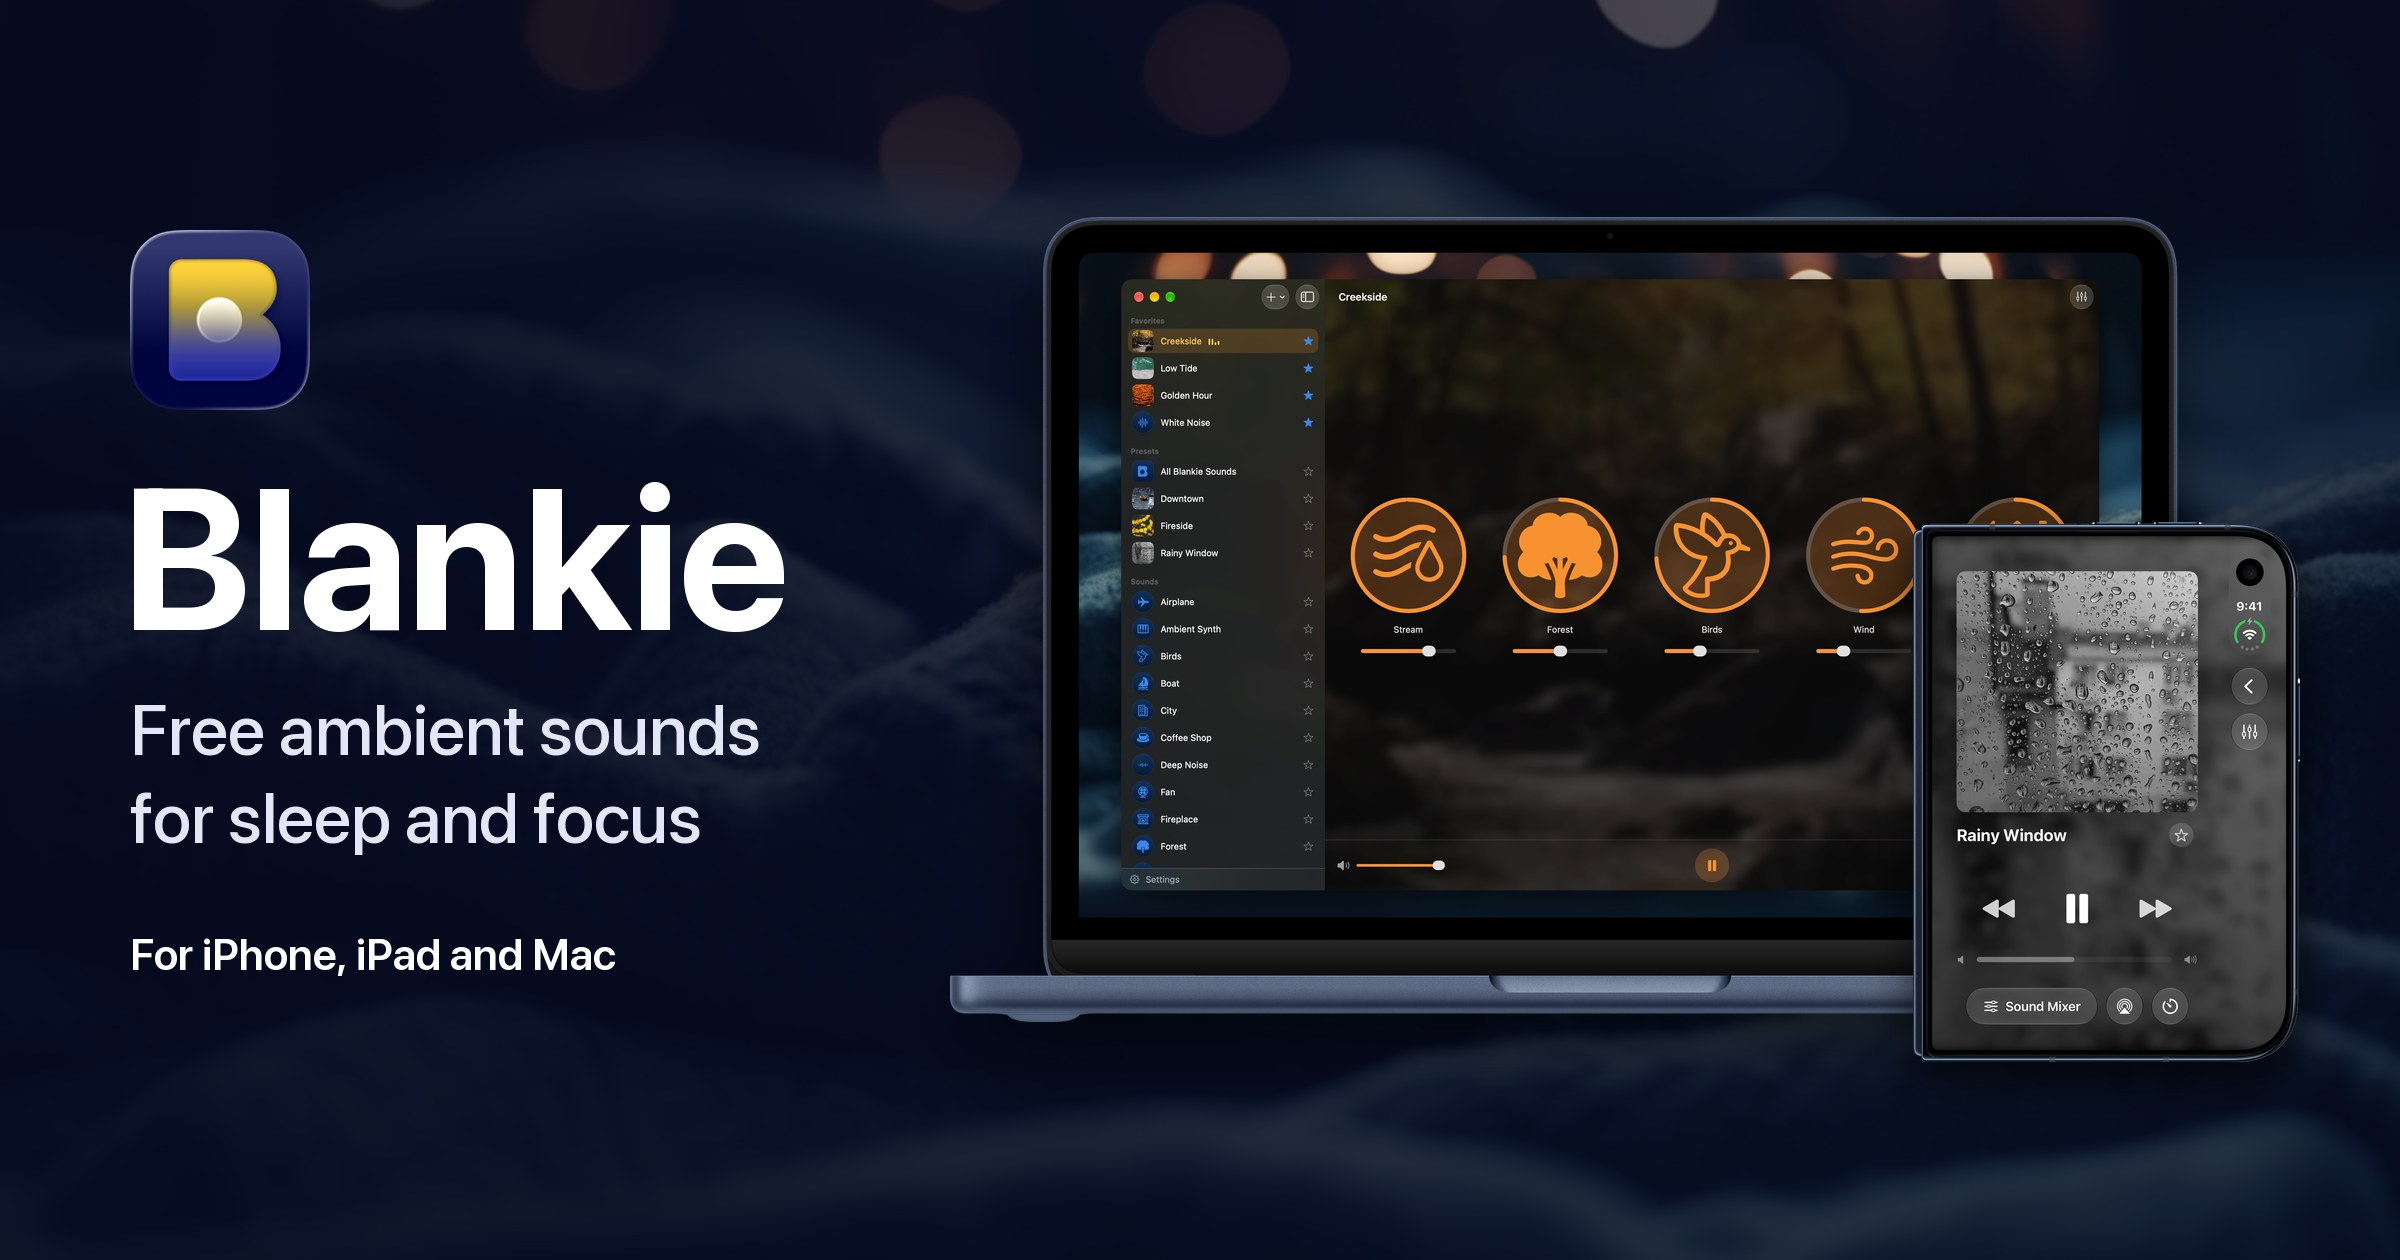
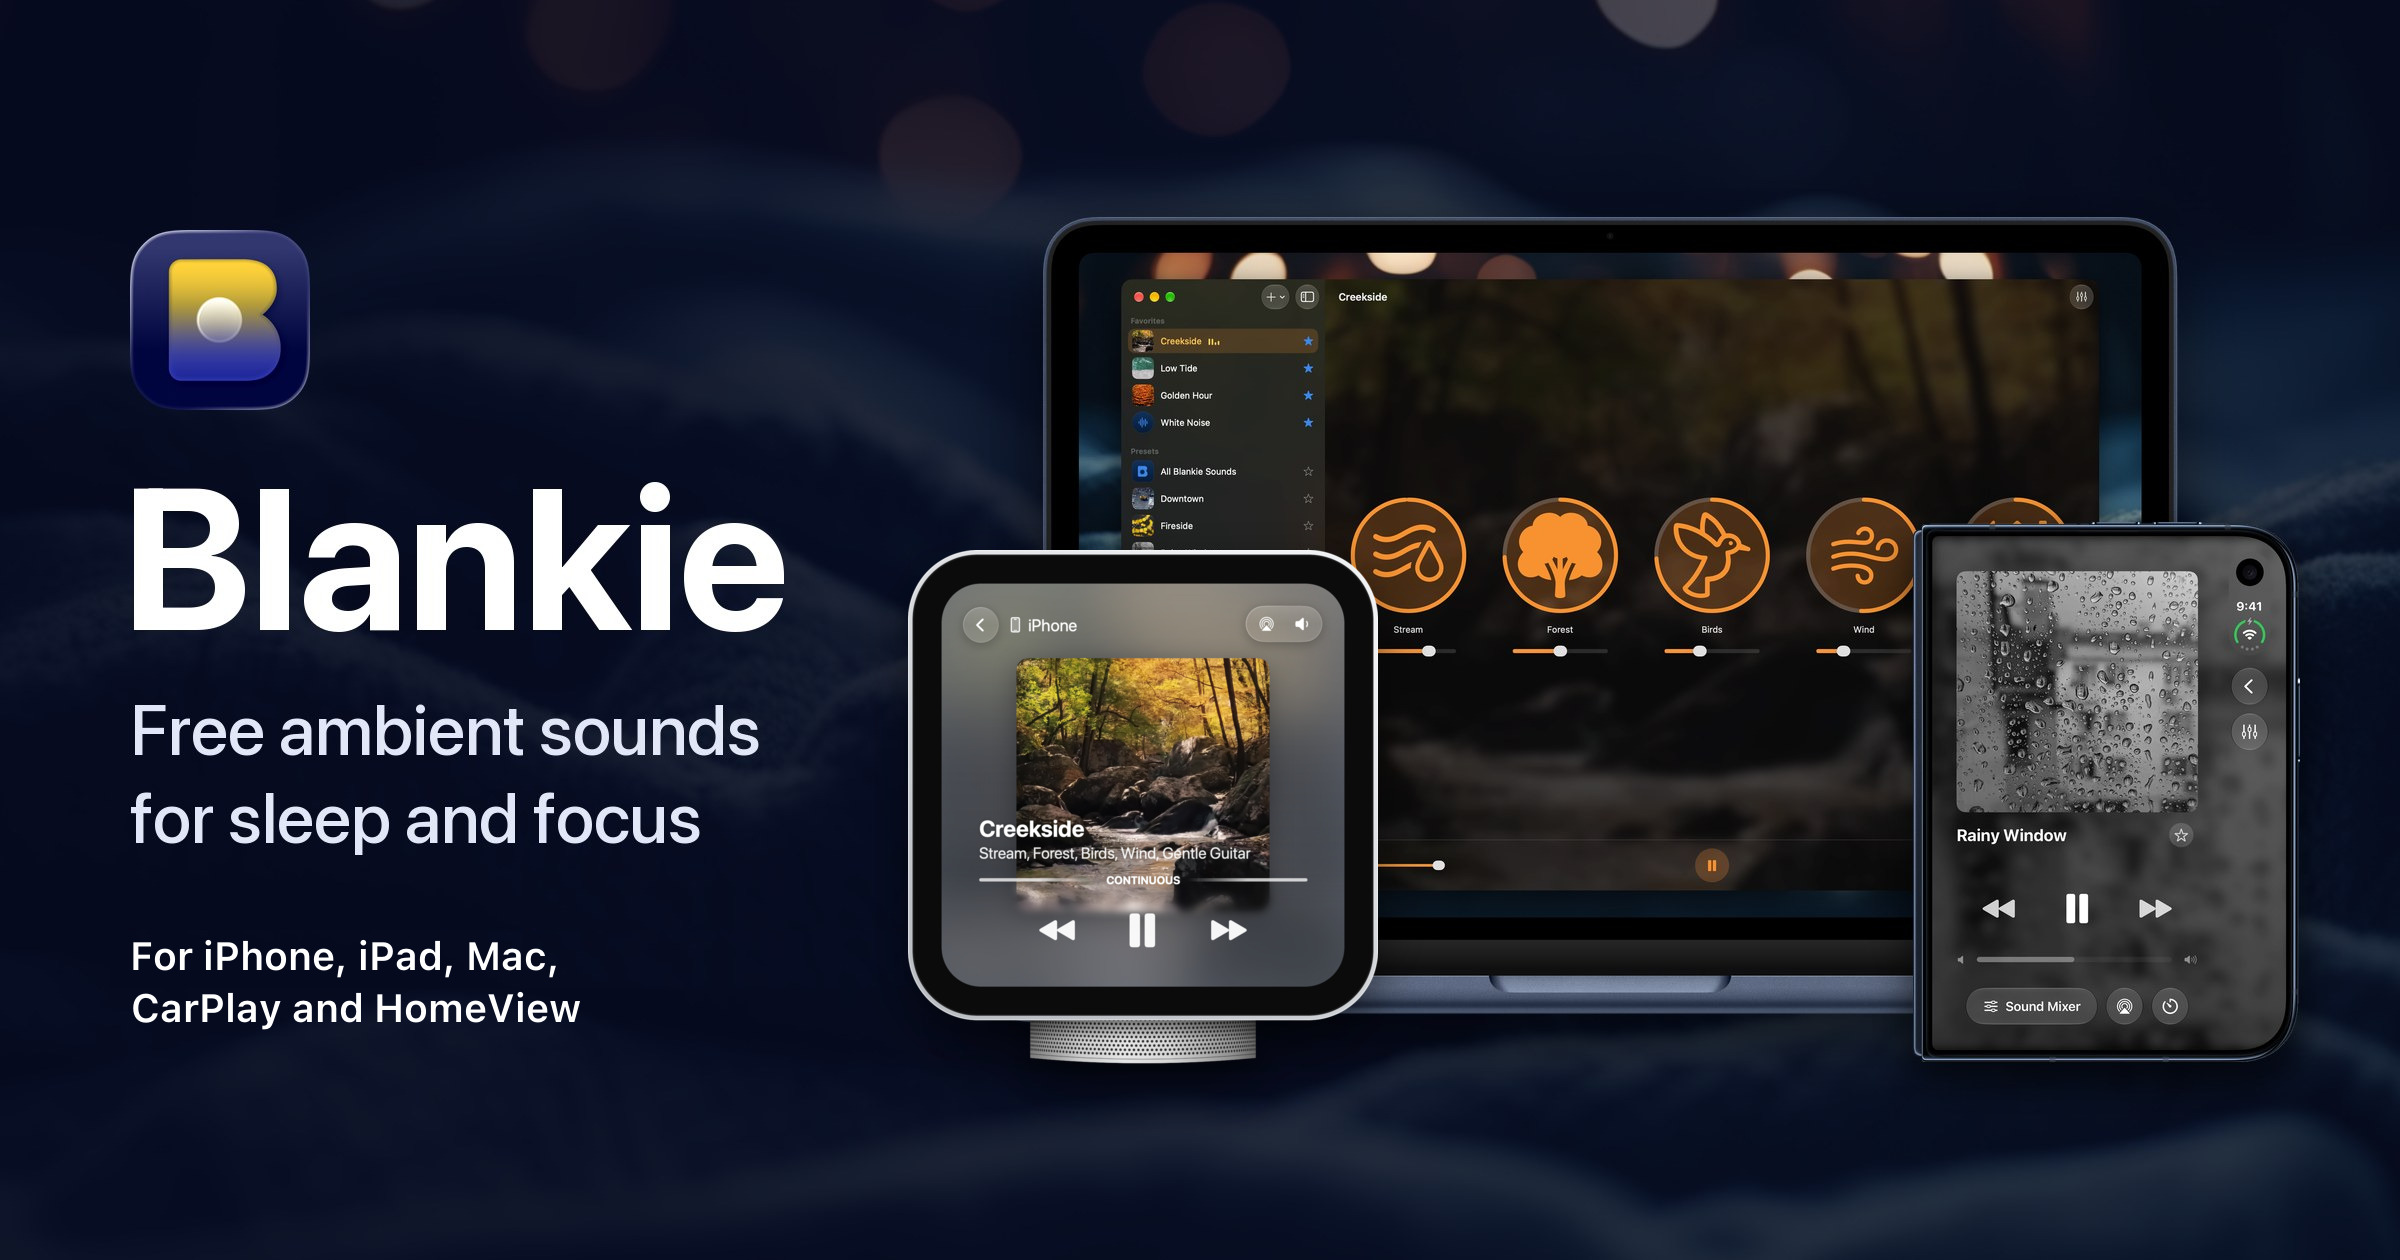
docs: add Apple HomeView guide and art

Changed region(s): [[0.375, 0.4333, 0.5938, 0.8667], [0.0625, 0.7429, 0.25, 0.8357]]

diff --git a/docs/src/scripts/webmcp.ts b/docs/src/scripts/webmcp.ts
@@ -42,7 +42,7 @@ const tools: ModelContextTool[] = [
     name: "find_pages",
     title: "Find pages",
     description:
-      "Search blankie.rest for guides and pages about Blankie, the free ambient sound mixer for iPhone, iPad, Mac and CarPlay. Returns each match's title, URL and summary. Leave the query empty to list every page.",
+      "Search blankie.rest for guides and pages about Blankie, the free ambient sound mixer for iPhone, iPad, Mac, CarPlay and HomeView. Returns each match's title, URL and summary. Leave the query empty to list every page.",
     inputSchema: {
       type: "object",
       properties: {

diff --git a/docs/src/utils/schema.ts b/docs/src/utils/schema.ts
@@ -71,7 +71,7 @@ export function softwareAppLd(opts?: {
     "@type": "SoftwareApplication",
     name: "Blankie",
     description:
-      "Free, open-source ambient sound mixer for iPhone, iPad, Mac and CarPlay. Layer adjustable sounds like rain, waves and white noise for sleep and focus.",
+      "Free, open-source ambient sound mixer for iPhone, iPad, Mac, CarPlay and HomeView. Layer sounds like rain, waves and white noise for sleep and focus.",
     operatingSystem:
       "iOS 26.4 or later, macOS 26.0 or later, iPadOS 26.4 or later",
     applicationCategory: "Ambient sound mixer",

diff --git a/docs/prebuild.js b/docs/prebuild.js
@@ -411,6 +411,10 @@ try {
     "guides/blankie-iphone-duo/book.png",
     "guides/blankie-iphone-duo/tent.png",
     "guides/blankie-iphone-duo/seated.png",
+    "guides/blankie-homeview/homeview-hero.png",
+    "guides/blankie-homeview/homeview-presets.png",
+    "guides/blankie-homeview/homeview-menu.png",
+    "guides/blankie-homeview/homeview-now-playing.png",
   ];
   // The App Store screenshots, by device in page order.
   for (const device of ["iphone", "ipad", "duo", "mac"]) {

diff --git a/docs/src/utils/webmcp-tools.ts b/docs/src/utils/webmcp-tools.ts
@@ -68,7 +68,7 @@ export function markdownUrlFor(path: string): string {
 export const DOWNLOADS = {
   appStore: {
     url: "https://apps.apple.com/app/blankie/id6740096581",
-    platforms: "iPhone, iPad, Mac and CarPlay",
+    platforms: "iPhone, iPad, Mac, CarPlay and HomeView",
     requires: "iOS or iPadOS 26.4 or later, or macOS 26 or later",
   },
   homebrew: {

diff --git a/docs/src/content/guides/blankie-homeview.md b/docs/src/content/guides/blankie-homeview.md
@@ -1,0 +1,81 @@
+---
+title: "Blankie on Apple HomeView"
+description: "Play Blankie's ambient sounds on HomeView. Your presets, favorites and sounds come over from your iPhone, with nothing extra to install."
+category: "basics"
+order: 44
+updated: 2026-11-13
+platforms: "HomeView"
+cover: "../../assets/guides/blankie-homeview/homeview-cover.jpg"
+coverAlt: "Three Apple HomeView screens running Blankie, with Now Playing for the Creekside preset in front"
+---
+
+Just picked up a new Apple HomeView? Good news, Blankie is ready out of the box.
+
+![Three HomeView screens running Blankie: the Presets list with Golden Hour playing in the Dynamic Island, Now Playing for Creekside in front, and the Home list.](../../assets/guides/blankie-homeview/homeview-hero.png)
+
+HomeView can run audio apps made for CarPlay but redraws them in its own style, so your mixes are ready to play from a kitchen counter or a nightstand. There's nothing to install on HomeView either. Blankie comes over from your iPhone with all your presets, favorites and sounds.
+
+## How to get started
+
+To make Blankie appear on your HomeView, you'll need to make sure a few things are in place:
+
+- **Blankie on your iPhone.** Get it from the [App Store](https://apps.apple.com/us/app/blankie/id6740096581?platform=iphone) if you haven't yet.
+- **Your iPhone paired, nearby and recently unlocked.** HomeView uses the same version of Blankie as your phone, so have your iPhone close by and on the same Wi-Fi network.
+- **HomeView knows your face.** Each person in the household gets their own Home Screen, and HomeView needs to recognize you before your apps show up on yours.
+
+## Find your way around
+
+Blankie on HomeView has the same basic sections as [Blankie on CarPlay](/guides/blankie-carplay/). Tap the menu toggle in the top-left corner to switch between them:
+
+- **Home**: your most recent mix, plus your favorite presets and sounds.
+- **Presets**: with *All Blankie Sounds* first, then every preset in alphabetical order, each with its artwork and the sounds inside it. Tap one to play it.
+- **Sounds**: your full list of built-in and imported sounds. Tap any sound to play it on its own.
+- **Quick Mix**: big sound tiles for building a mix on the spot. (This isn't working properly on HomeView yet. See more under **Known issues** below.)
+
+When you tap something playable from a list, HomeView opens it in **Now Playing**, just like CarPlay. Back out of it and that mix's artwork moves to the **Dynamic Island** at the top of the screen. When the island expands, it shows the mix's name and sounds, with pause and skip buttons. Tap the island anytime to get back to **Now Playing**.
+
+Expect a short pause after each tap. HomeView sends every tap to your iPhone and waits for the sound to stream back, so playback may take a second or two to start. It's similar to how wireless CarPlay works in some cars, so don't worry if things feel a little sluggish sometimes.
+
+![The section menu open on HomeView over Blankie's Home list, with Home selected above Presets, Sounds and Quick Mix.](../../assets/guides/blankie-homeview/homeview-menu.png)
+
+## Now Playing
+
+The **Now Playing** controls on HomeView work like they do on CarPlay and the Lock Screen. Pause stops what you're playing, and the back and forward buttons move through the [favorites you've set in Blankie](/guides/create-and-manage-presets/). Leave the screen alone for a few seconds and the controls fade away so the artwork fills the whole screen.
+
+HomeView doesn't have volume buttons, so volume lives on the screen too. Tap anywhere on **Now Playing** to bring the controls back, then tap the volume button {{icon:speaker}} in the top-right corner.
+
+For now, that's all that's possible with the first version of HomeView's software. The extra actions available in CarPlay (changing the volume of each sound in a preset, starring a preset or sound, or setting a **Sleep Timer**) aren't available on HomeView just yet. You can still do those on your iPhone and have them instantly reflected on HomeView, but hopefully a future HomeView software update will make it possible for you to do them right on the device.
+
+![Now Playing on HomeView for the Creekside preset: its artwork, the Stream, Forest, Birds, Wind and Gentle Guitar sounds, Continuous, and back, pause and forward buttons, with AirPlay and volume in the top-right corner.](../../assets/guides/blankie-homeview/homeview-now-playing.png)
+
+## Widgets on HomeView
+
+HomeView supports widgets, so you can have your favorite mix or sound one-tap away from your device's face or app drawer.
+
+For now, HomeView only works with Blankie's small widgets for iPhone, which are the **Now Playing** and **Pinned Sound** widgets. You can add them to the "Modular" face or your app drawer, then tap them to jump back to Blankie or start your pinned preset or sound right away.
+
+## Send Blankie to HomeView with AirPlay
+
+You can also play Blankie through HomeView's speakers straight from your iPhone or iPad. Open **Now Playing** in Blankie, tap the **AirPlay** button and choose your HomeView. Your phone will handle all the mixing while HomeView does the playing, and you can control playback and volume from either device.
+
+## Known issues with HomeView
+
+As of launch day, Blankie is pretty capable but still experiencing a few limitations to be aware of:
+
+- Quick Mix isn't working on HomeView. When you open it, the sound tiles show up, but none of them turn on or play. Starting a Quick Mix from your iPhone doesn't help either, and the tiles on HomeView stay unresponsive.
+- Blankie can stop playing suddenly when you leave the app on HomeView, and some icons in lists show up at different sizes.
+
+Fixes for these issues will be made available as soon as possible.
+
+## It's still just Blankie
+
+Even though HomeView brings Blankie to a new screen in your home, it doesn't change the core experience of the app. You're still getting the same mixes, sounds and presets that you love on your iPhone, just with a new way to interact with them.
+
+Some things are still easier on your iPhone until HomeView's software adds more capabilities. As Apple adds more to HomeView, Blankie will continue to evolve and take advantage of any new opportunities to enhance the HomeView experience. But through all of it, Blankie will always stay free and open source.
+
+## Related guides
+
+- [Blankie on CarPlay](/guides/blankie-carplay/)
+- [Fall Asleep with the Sleep Timer](/guides/sleep-timer/)
+- [Create and Theme Presets](/guides/create-and-manage-presets/)
+- [Control Blankie from Anywhere](/guides/control-blankie-anywhere/)
